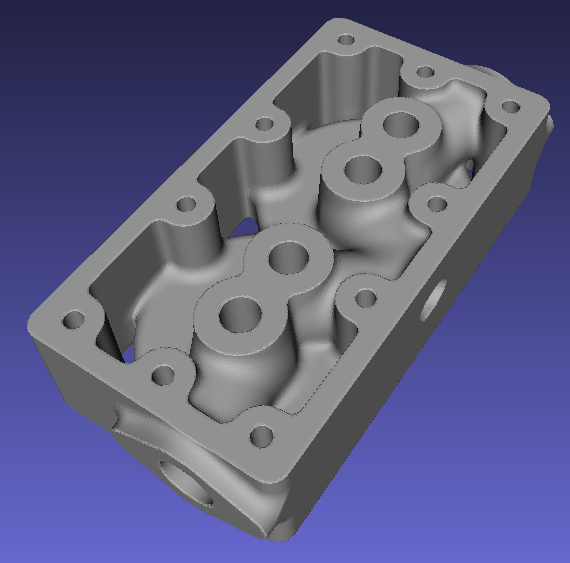
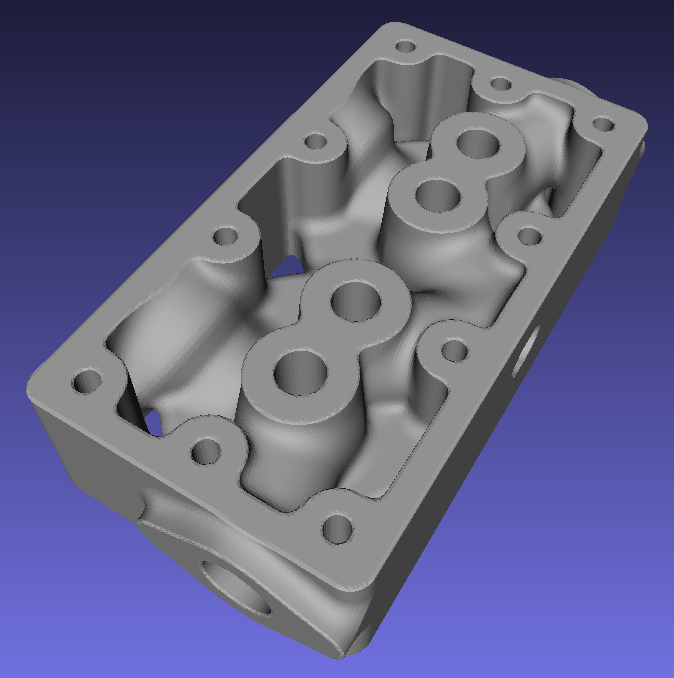
Added sparkplug bosses to cylinder head.

diff --git a/examples/cylinder_head/main.go b/examples/cylinder_head/main.go
@@ -74,8 +74,73 @@ func exhaust_boss(mode string, x_ofs float64) SDF3 {
 
 func exhaust_bosses(mode string) SDF3 {
 	x_ofs := 0.5*(head_length+eb_height) - eb_height0
-	return NewUnionSDF3(exhaust_boss(mode, x_ofs),
-		exhaust_boss(mode, -x_ofs))
+	return NewUnionSDF3(exhaust_boss(mode, x_ofs), exhaust_boss(mode, -x_ofs))
+}
+
+//-----------------------------------------------------------------------------
+// spark plug bosses
+
+var sp2sp_distance = dim(1.0 + (5.0 / 8.0))
+var sp_theta = DtoR(30)
+
+var sp_boss_r1 = dim(21.0 / 64.0)
+var sp_boss_r2 = dim(15.0 / 32.0)
+var sp_boss_h1 = dim(0.79)
+var sp_boss_h2 = dim(0.94)
+var sp_boss_h3 = dim(2)
+
+var sp_hole_d = dim(21.0 / 64.0)
+var sp_hole_r = sp_hole_d / 2.0
+var sp_hole_h = dim(1.0)
+
+var sp_cb_h1 = dim(1.0)
+var sp_cb_h2 = dim(2.0)
+var sp_cb_r = dim(5.0 / 16.0)
+
+var sp_hyp = sp_hole_h + sp_cb_r*math.Tan(sp_theta)
+var sp_y_ofs = sp_hyp*math.Cos(sp_theta) - head_width/2
+var sp_z_ofs = -sp_hyp * math.Sin(sp_theta)
+
+func sparkplug(mode string, x_ofs float64) SDF3 {
+	var vlist []V2
+	if mode == "boss" {
+		boss := NewSmoother(false)
+		boss.Add(V2{0, 0})
+		boss.Add(V2{sp_boss_r1, 0})
+		boss.AddSmooth(V2{sp_boss_r1, sp_boss_h1}, 3, sp_boss_r1*0.3)
+		boss.AddSmooth(V2{sp_boss_r2, sp_boss_h2}, 3, sp_boss_r2*0.3)
+		boss.Add(V2{sp_boss_r2, sp_boss_h3})
+		boss.Add(V2{0, sp_boss_h3})
+		boss.Smooth()
+		vlist = boss.Vertices()
+	} else if mode == "hole" {
+		vlist = []V2{
+			V2{0, 0},
+			V2{sp_hole_r, 0},
+			V2{sp_hole_r, sp_hole_h},
+			V2{0, sp_hole_h},
+		}
+	} else if mode == "counterbore" {
+		vlist = []V2{
+			V2{0, sp_cb_h1},
+			V2{sp_cb_r, sp_cb_h1},
+			V2{sp_cb_r, sp_cb_h2},
+			V2{0, sp_cb_h2},
+		}
+	} else {
+		panic("bad mode")
+	}
+	s0 := NewPolySDF2(vlist)
+	s := NewSorSDF3(s0)
+	m := RotateX(PI/2 - sp_theta)
+	m = Translate3d(V3{x_ofs, sp_y_ofs, sp_z_ofs}).Mul(m)
+	s = NewTransformSDF3(s, m)
+	return s
+}
+
+func sparkplugs(mode string) SDF3 {
+	x_ofs := 0.5 * sp2sp_distance
+	return NewUnionSDF3(sparkplug(mode, x_ofs), sparkplug(mode, -x_ofs))
 }
 
 //-----------------------------------------------------------------------------
@@ -260,9 +325,7 @@ func manifold_set(r float64) SDF3 {
 }
 
 func manifolds(mode string) SDF3 {
-
 	var r float64
-
 	if mode == "body" {
 		r = manifold_radius
 	} else if mode == "hole" {
@@ -270,14 +333,12 @@ func manifolds(mode string) SDF3 {
 	} else {
 		panic("bad mode")
 	}
-
 	s0 := manifold_set(r)
 	s1 := NewTransformSDF3(s0, MirrorYZ())
 	s := NewUnionSDF3(s0, s1)
 	if mode == "body" {
 		s.(*UnionSDF3).SetMin(PolyMin, general_round)
 	}
-
 	return s
 }
 
@@ -292,6 +353,9 @@ func additive() SDF3 {
 	s.(*UnionSDF3).SetMin(PolyMin, general_round)
 
 	s = NewUnionSDF3(s, valve_sets("boss"))
+	s.(*UnionSDF3).SetMin(PolyMin, general_round)
+
+	s = NewUnionSDF3(s, sparkplugs("boss"))
 	s.(*UnionSDF3).SetMin(PolyMin, general_round)
 
 	s = NewUnionSDF3(s, manifolds("body"))
@@ -310,10 +374,13 @@ func additive() SDF3 {
 func subtractive() SDF3 {
 	var s SDF3
 	if casting {
+		s = NewUnionSDF3(s, sparkplugs("counterbore"))
 	} else {
 		s = NewUnionSDF3(s, cylinder_heads("chamber"))
 		s = NewUnionSDF3(s, head_stud_holes())
 		s = NewUnionSDF3(s, valve_sets("hole"))
+		s = NewUnionSDF3(s, sparkplugs("hole"))
+		s = NewUnionSDF3(s, sparkplugs("counterbore"))
 		s = NewUnionSDF3(s, manifolds("hole"))
 		s = NewUnionSDF3(s, exhaust_bosses("hole"))
 	}
